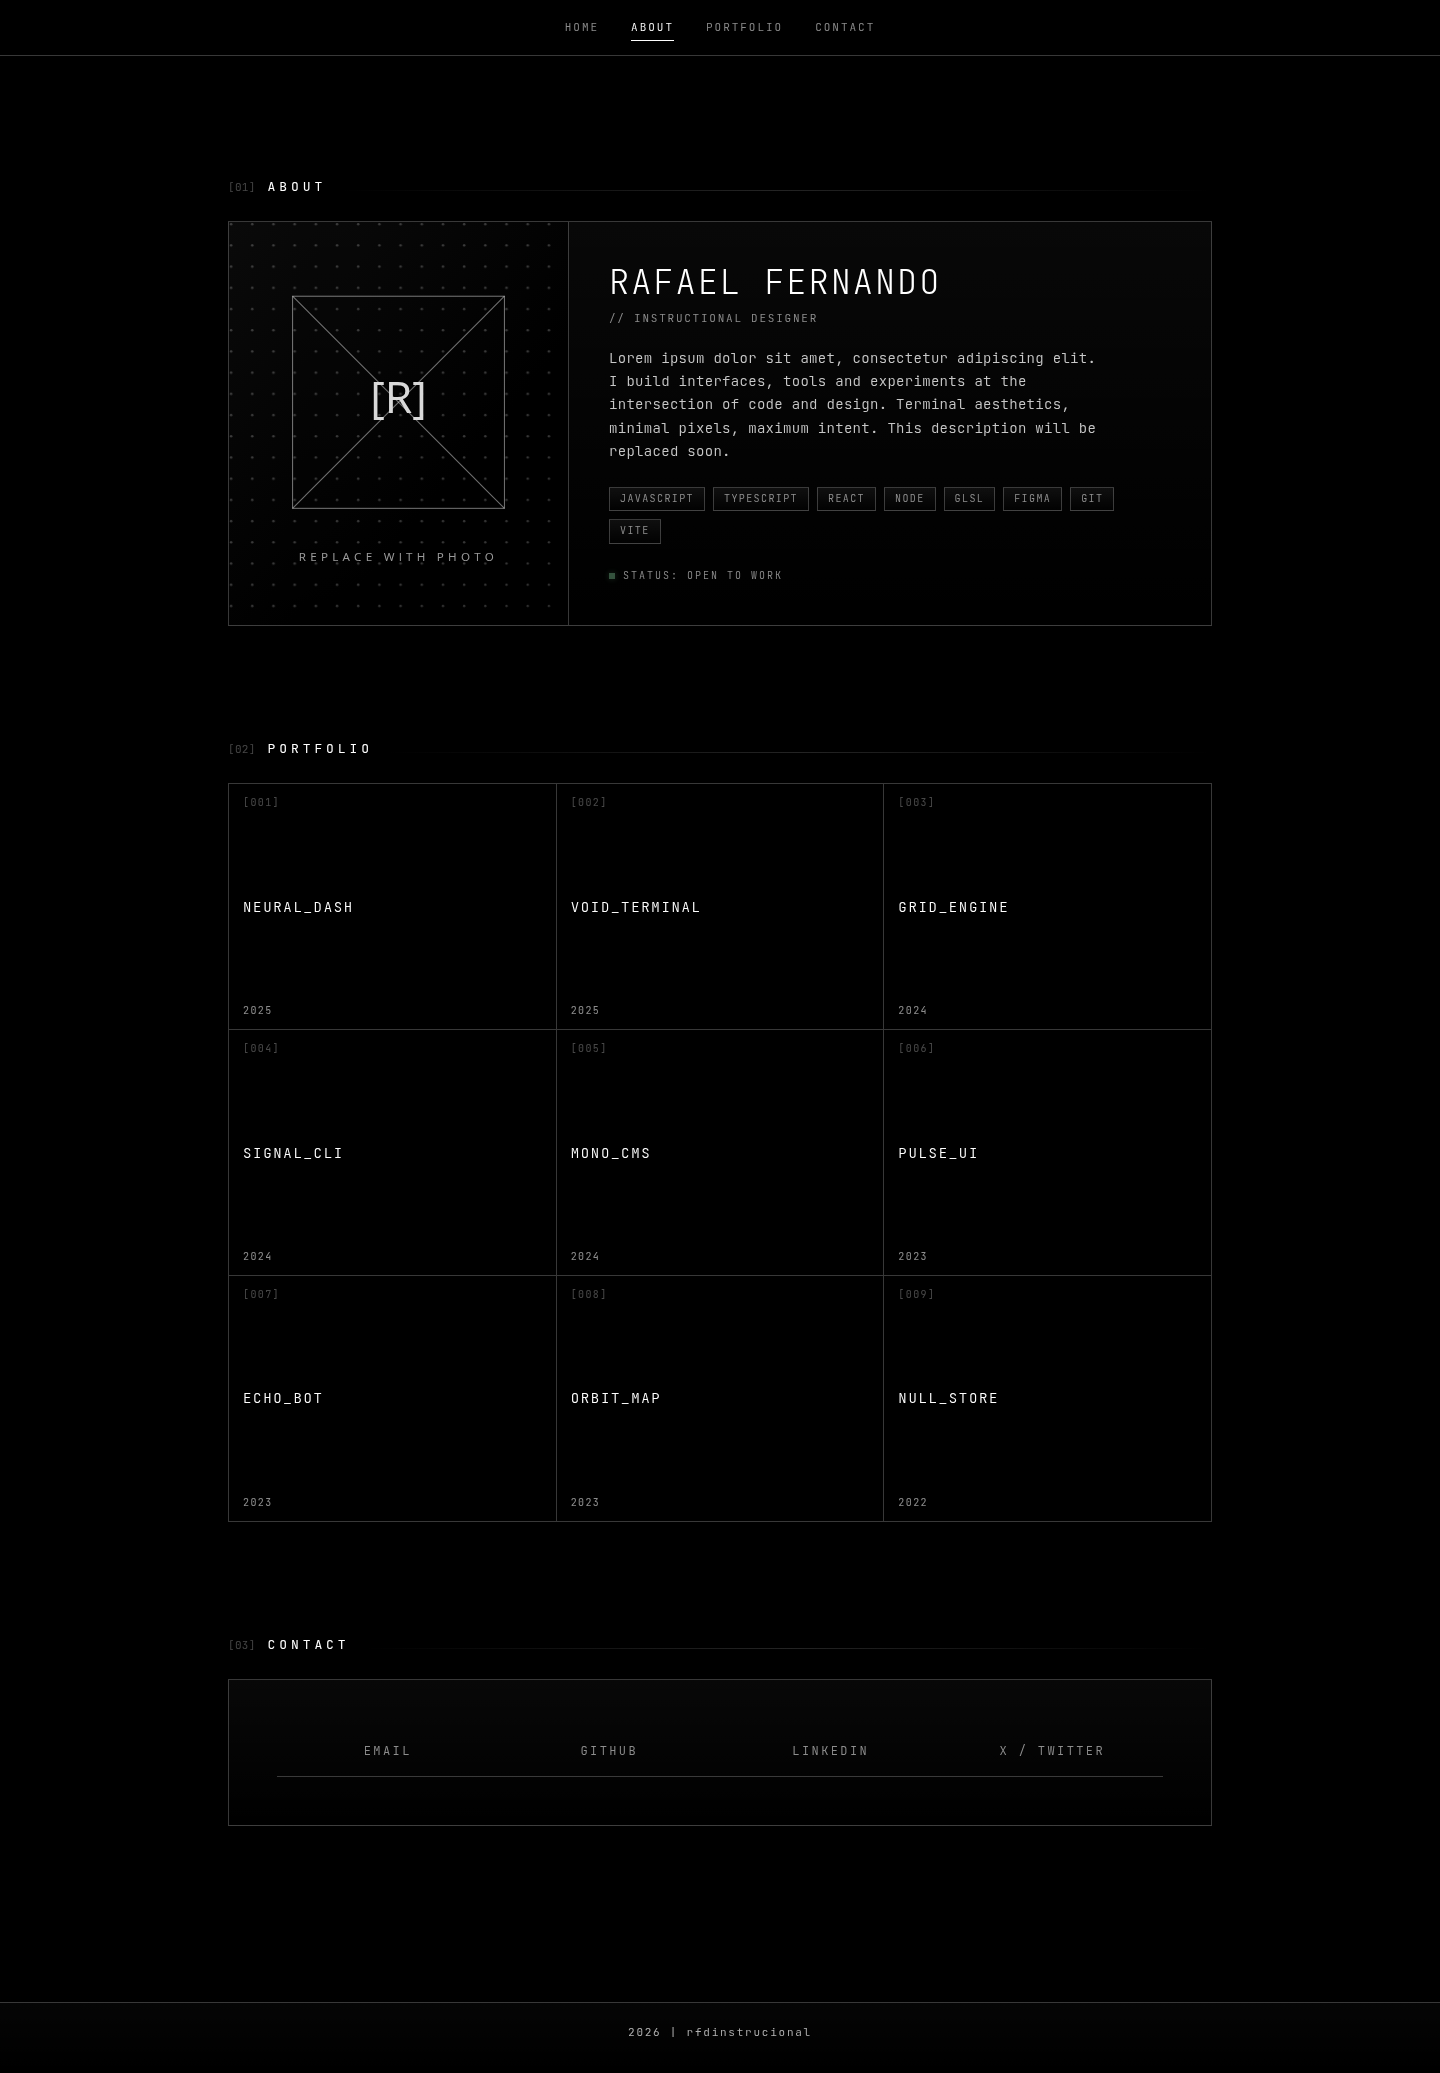
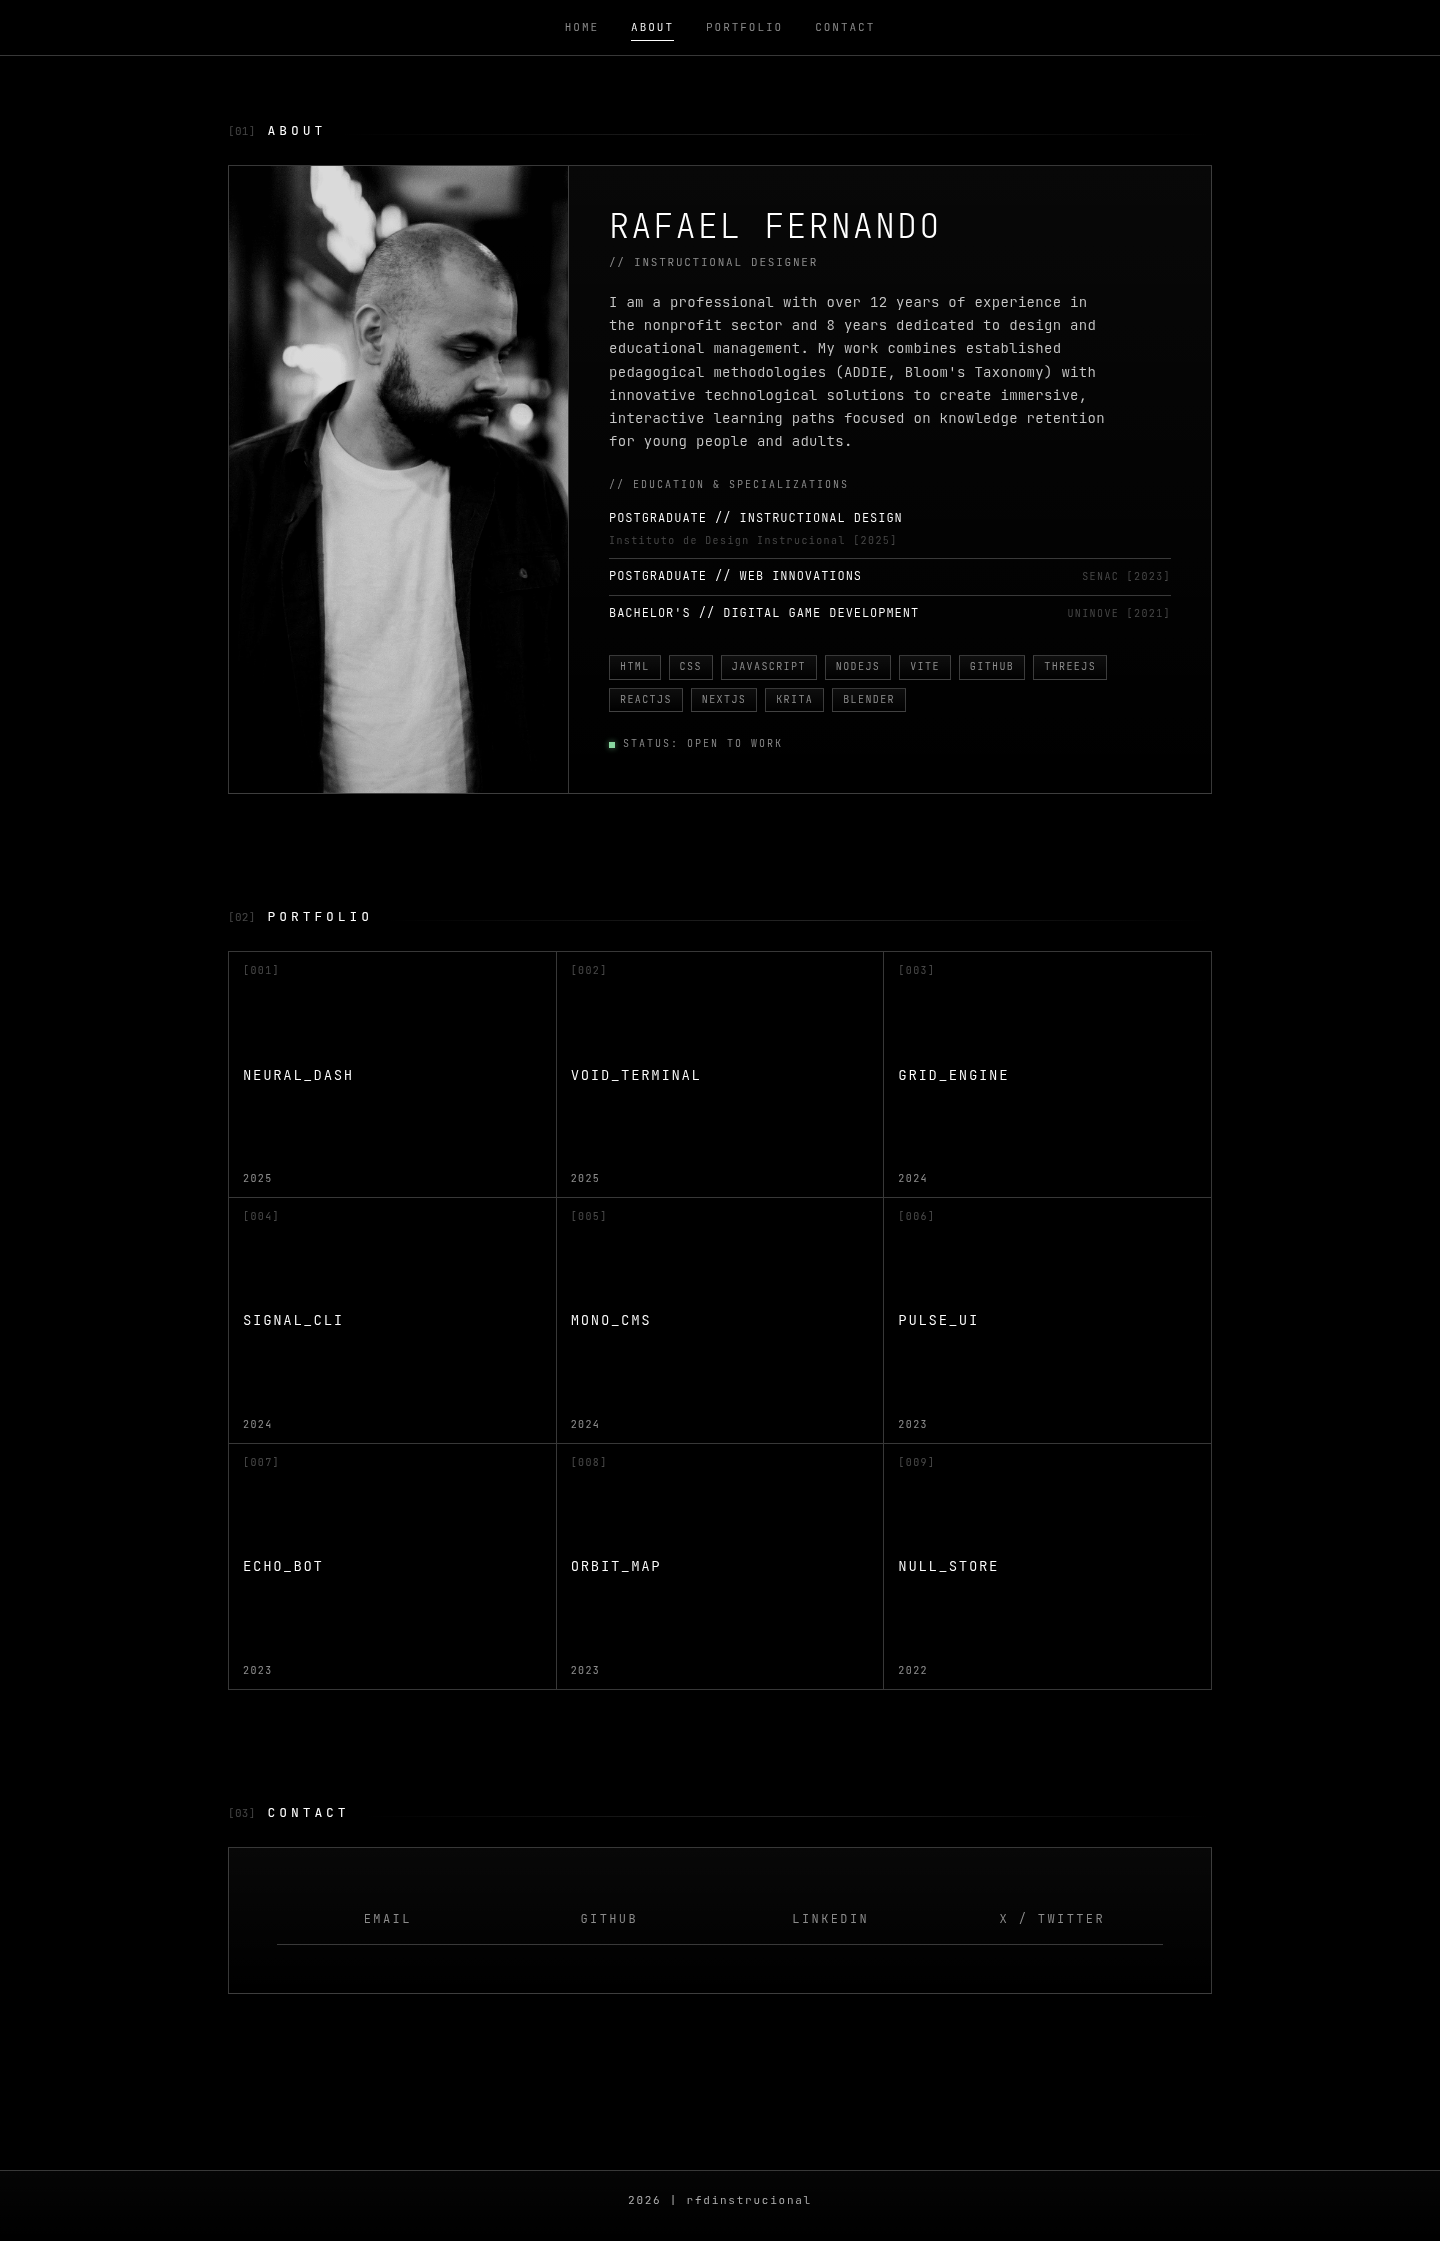
update push

diff --git a/src/style.css b/src/style.css
@@ -37,7 +37,7 @@ body.modal-open { overflow: hidden; }
   pointer-events: none;
 }
 
-main, header.site-header, footer.site-footer {
+main, footer.site-footer {
   position: relative;
   z-index: 1;
 }
@@ -48,6 +48,7 @@ main, header.site-header, footer.site-footer {
   top: 0;
   left: 0;
   right: 0;
+  z-index: 10;
   display: flex;
   align-items: center;
   justify-content: center;
@@ -96,7 +97,7 @@ main, header.site-header, footer.site-footer {
 
 /* ---------- layout ---------- */
 main {
-  max-width: 1080px;
+  max-width: 1240px;
   margin: 0 auto;
   padding: calc(56px + 4rem) clamp(1rem, 4vw, 3rem) 4rem;
 }
@@ -186,6 +187,46 @@ main {
   font-size: 14px;
 }
 
+.edu { margin-top: 1.5rem; }
+
+.edu-title {
+  font-size: 10px;
+  letter-spacing: 0.2em;
+  color: var(--dim);
+}
+
+.edu-list {
+  list-style: none;
+  margin-top: 0.5rem;
+}
+
+.edu-list li {
+  display: flex;
+  justify-content: space-between;
+  align-items: baseline;
+  flex-wrap: wrap;
+  gap: 0.25rem 1rem;
+  padding: 8px 0;
+  border-bottom: 1px solid var(--line);
+}
+
+.edu-list li:last-child { border-bottom: none; }
+
+.edu-degree {
+  font-size: 12px;
+  letter-spacing: 0.08em;
+  color: var(--fg);
+  transition: letter-spacing var(--t-fast) ease;
+}
+
+.edu-list li:hover .edu-degree { letter-spacing: 0.12em; }
+
+.edu-inst {
+  font-size: 10px;
+  letter-spacing: 0.14em;
+  color: var(--faint);
+}
+
 .tools {
   list-style: none;
   display: flex;
@@ -232,7 +273,7 @@ main {
 /* ---------- gallery ---------- */
 .grid {
   display: grid;
-  grid-template-columns: repeat(auto-fill, minmax(280px, 1fr));
+  grid-template-columns: repeat(3, 1fr);
   border-top: 1px solid var(--line);
   border-left: 1px solid var(--line);
   background: rgba(0, 0, 0, 0.45);
@@ -320,23 +361,29 @@ main {
 
 .contact-links {
   display: grid;
-  grid-template-columns: repeat(auto-fill, minmax(200px, 1fr));
+  grid-template-columns: repeat(4, 1fr);
+  border-top: 1px solid var(--line);
+  border-left: 1px solid var(--line);
 }
 
 .contact-links a {
   display: flex;
   justify-content: center;
   align-items: center;
-  padding: 14px 4px;
+  padding: 18px 8px;
   color: var(--dim);
   text-decoration: none;
   font-size: 12px;
   letter-spacing: 0.2em;
+  border-right: 1px solid var(--line);
   border-bottom: 1px solid var(--line);
-  transition: color 0.25s ease, padding-left 0.25s ease;
+  transition: color 0.25s ease, background 0.25s ease;
 }
 
-.contact-links a:hover { color: var(--fg); padding-left: 10px; }
+.contact-links a:hover {
+  color: #000;
+  background: rgba(255, 255, 255, 0.92);
+}
 
 /* ---------- footer ---------- */
 .site-footer {
@@ -498,6 +545,14 @@ a:focus-visible, button:focus-visible {
   .about-photo { border-right: none; border-bottom: 1px solid var(--line); max-height: 380px; }
 
   .section { scroll-margin-top: 110px; }
+
+  .grid { grid-template-columns: repeat(2, 1fr); }
+
+  .contact-links { grid-template-columns: repeat(2, 1fr); }
+}
+
+@media (max-width: 480px) {
+  .grid { grid-template-columns: 1fr; }
 }
 
 @media (prefers-reduced-motion: reduce) {

diff --git a/index.html b/index.html
@@ -36,7 +36,7 @@
 
         <div class="card about-card">
           <figure class="about-photo">
-            <img src="/avatar.svg" alt="Portrait photo" width="320" height="380" />
+            <img src="/rafael.jpeg" alt="Portrait of Rafael Fernando" />
           </figure>
 
           <div class="about-body">
@@ -46,21 +46,52 @@
             <p class="about-role">// INSTRUCTIONAL DESIGNER</p>
 
             <p class="about-text">
-              Lorem ipsum dolor sit amet, consectetur adipiscing elit. I build
-              interfaces, tools and experiments at the intersection of code and
-              design. Terminal aesthetics, minimal pixels, maximum intent.
-              This description will be replaced soon.
+              I am a professional with over 12 years of experience in the
+              nonprofit sector and 8 years dedicated to design and educational
+              management. My work combines established pedagogical methodologies
+              (ADDIE, Bloom's Taxonomy) with innovative technological solutions
+              to create immersive, interactive learning paths focused on
+              knowledge retention for young people and adults.
             </p>
 
+            <div class="edu">
+              <p class="edu-title">// EDUCATION &amp; SPECIALIZATIONS</p>
+              <ul class="edu-list">
+                <li>
+                  <span class="edu-degree">POSTGRADUATE // INSTRUCTIONAL DESIGN</span>
+                  <span class="edu-inst">Instituto de Design Instrucional [2025]</span>
+                </li>
+                <li>
+                  <span class="edu-degree">POSTGRADUATE // WEB INNOVATIONS</span>
+                  <span class="edu-inst">SENAC [2023]</span>
+                </li>
+                <li>
+                  <span class="edu-degree">BACHELOR'S // DIGITAL GAME DEVELOPMENT</span>
+                  <span class="edu-inst">UNINOVE [2021]</span>
+                </li>
+              </ul>
+            </div>
+
             <ul class="tools" aria-label="Tools">
+              <li>HTML</li>
+              <li>CSS</li>
               <li>JAVASCRIPT</li>
-              <li>TYPESCRIPT</li>
-              <li>REACT</li>
-              <li>NODE</li>
-              <li>GLSL</li>
-              <li>FIGMA</li>
-              <li>GIT</li>
+              <li>NODEJS</li>
               <li>VITE</li>
+              <li>GITHUB</li>
+              <li>THREEJS</li>
+              <li>REACTJS</li>
+              <li>REACT THREE FIBER</li>
+              <li>NEXTJS</li>
+              <li>KRITA</li>
+              <li>BLENDER</li>
+              <li>STORYLINE</li>
+              <li>RISE</li>
+              <li>RIVE</li>
+              <li>FIGMA</li>
+              <li>AI STUDIO</li>
+              <li>FLOW</li>
+              <li>STITCH</li>
             </ul>
 
             <p class="status">

diff --git a/src/main.js b/src/main.js
@@ -69,22 +69,12 @@ document.addEventListener('keydown', (e) => {
 
 /* ---------- nav active state ---------- */
 const navLinks = [...document.querySelectorAll('.nav a')];
-const sections = navLinks
-  .map((a) => document.querySelector(a.getAttribute('href')))
-  .filter(Boolean);
 
-const io = new IntersectionObserver(
-  (entries) => {
-    entries.forEach((entry) => {
-      if (!entry.isIntersecting) return;
-      navLinks.forEach((a) =>
-        a.classList.toggle('active', a.getAttribute('href') === `#${entry.target.id}`)
-      );
-    });
-  },
-  { rootMargin: '-40% 0px -55% 0px' }
-);
-sections.forEach((s) => io.observe(s));
+navLinks.forEach((a) => {
+  a.addEventListener('click', () => {
+    navLinks.forEach((link) => link.classList.toggle('active', link === a));
+  });
+});
 
 /* ---------- misc ---------- */
 document.getElementById('year').textContent = new Date().getFullYear();
